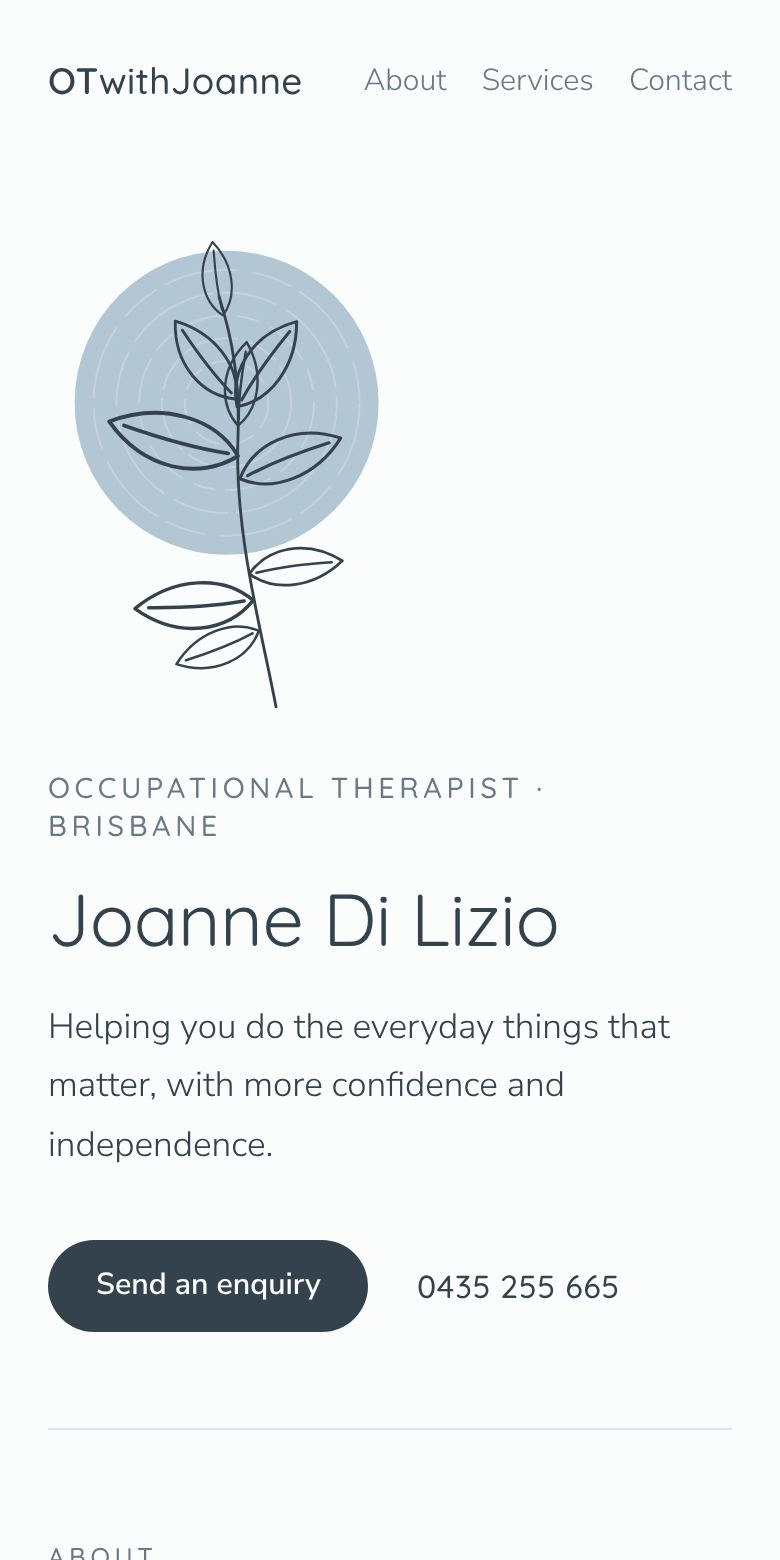
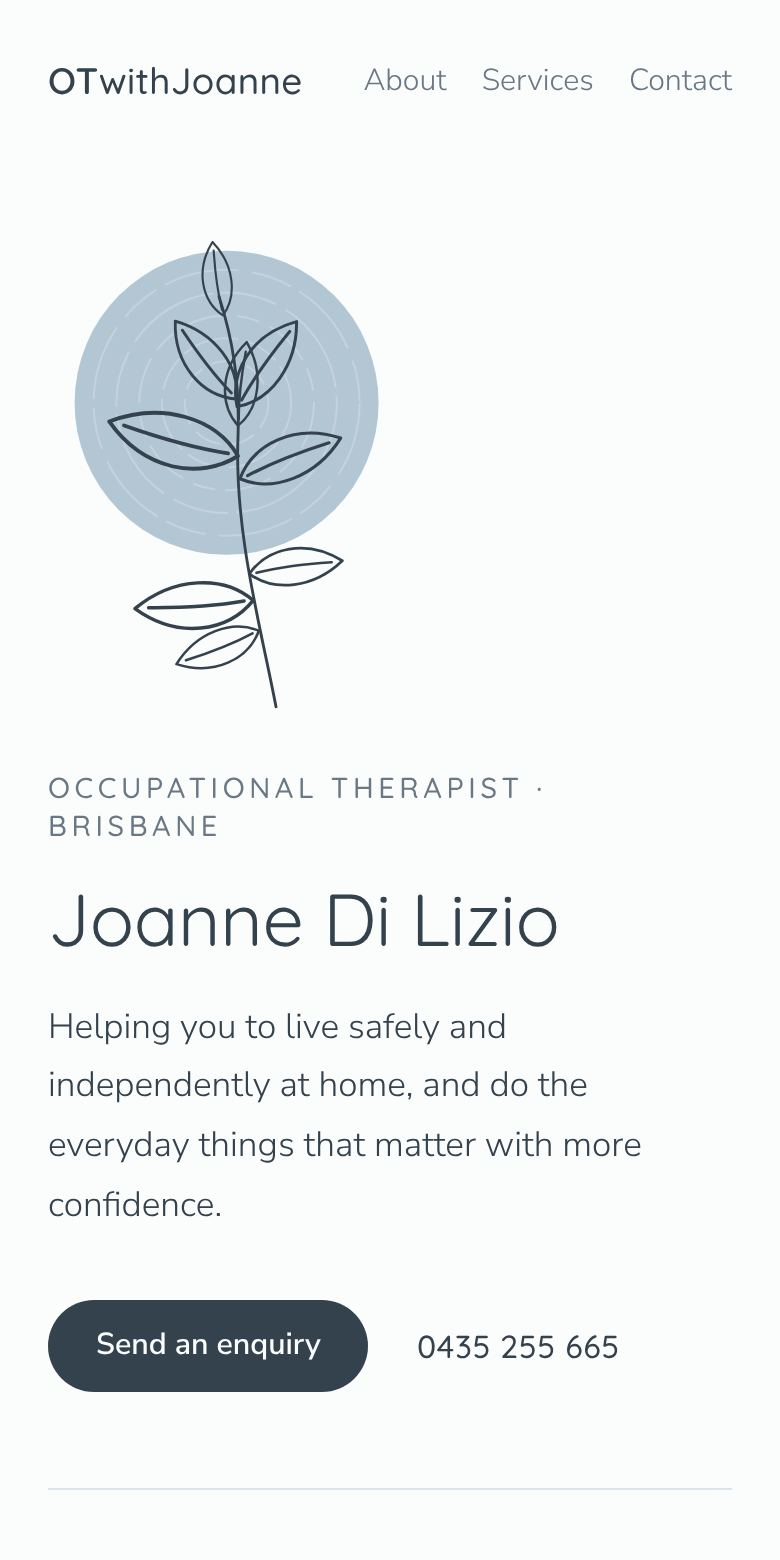
Stillwater: update hero summary with Joanne's wording
Claude-Session: https://claude.ai/code/session_014QoqTLQYdPtaXvo6XK8xiK

diff --git a/otwithjoanne/concepts/stillwater.html b/otwithjoanne/concepts/stillwater.html
@@ -56,7 +56,7 @@ a:focus-visible, button:focus-visible { outline: 2px solid var(--ink); outline-o
 .mark { width: 100%; max-width: 300px; height: auto; display: block; }
 .hero h1 { font: 400 clamp(2.3rem, 5.6vw, 4rem)/1.05 var(--display); margin: 0 0 1.25rem; letter-spacing: -.005em; text-wrap: balance; }
 .role { font: 500 clamp(.9rem, 1.3vw, .98rem)/1.3 var(--display); letter-spacing: .16em; text-transform: uppercase; color: var(--muted); margin: 0 0 1.1rem; }
-.lede { font-size: clamp(1.1rem, 1.8vw, 1.3rem); max-width: 34ch; margin: 0 0 2rem; color: var(--ink); }
+.lede { font-size: clamp(1.1rem, 1.8vw, 1.3rem); max-width: 40ch; margin: 0 0 2rem; color: var(--ink); }
 .actions { display: flex; flex-wrap: wrap; gap: .75rem 1.5rem; align-items: center; }
 .btn {
   display: inline-block; font: 600 .95rem/1 var(--body); text-decoration: none;
@@ -166,7 +166,7 @@ footer p { margin: 0; max-width: 60ch; }
       <div>
         <p class="role">Occupational Therapist · Brisbane</p>
         <h1>Joanne Di Lizio</h1>
-        <p class="lede">Helping you do the everyday things that matter, with more confidence and independence.</p>
+        <p class="lede">Helping you to live safely and independently at home, and do the everyday things that matter with more confidence.</p>
         <div class="actions">
           <a class="btn" href="mailto:otwithjoanne@gmail.com?subject=Website%20enquiry">Send an enquiry</a>
           <a class="phone" href="tel:+61435255665">0435 255 665</a>
